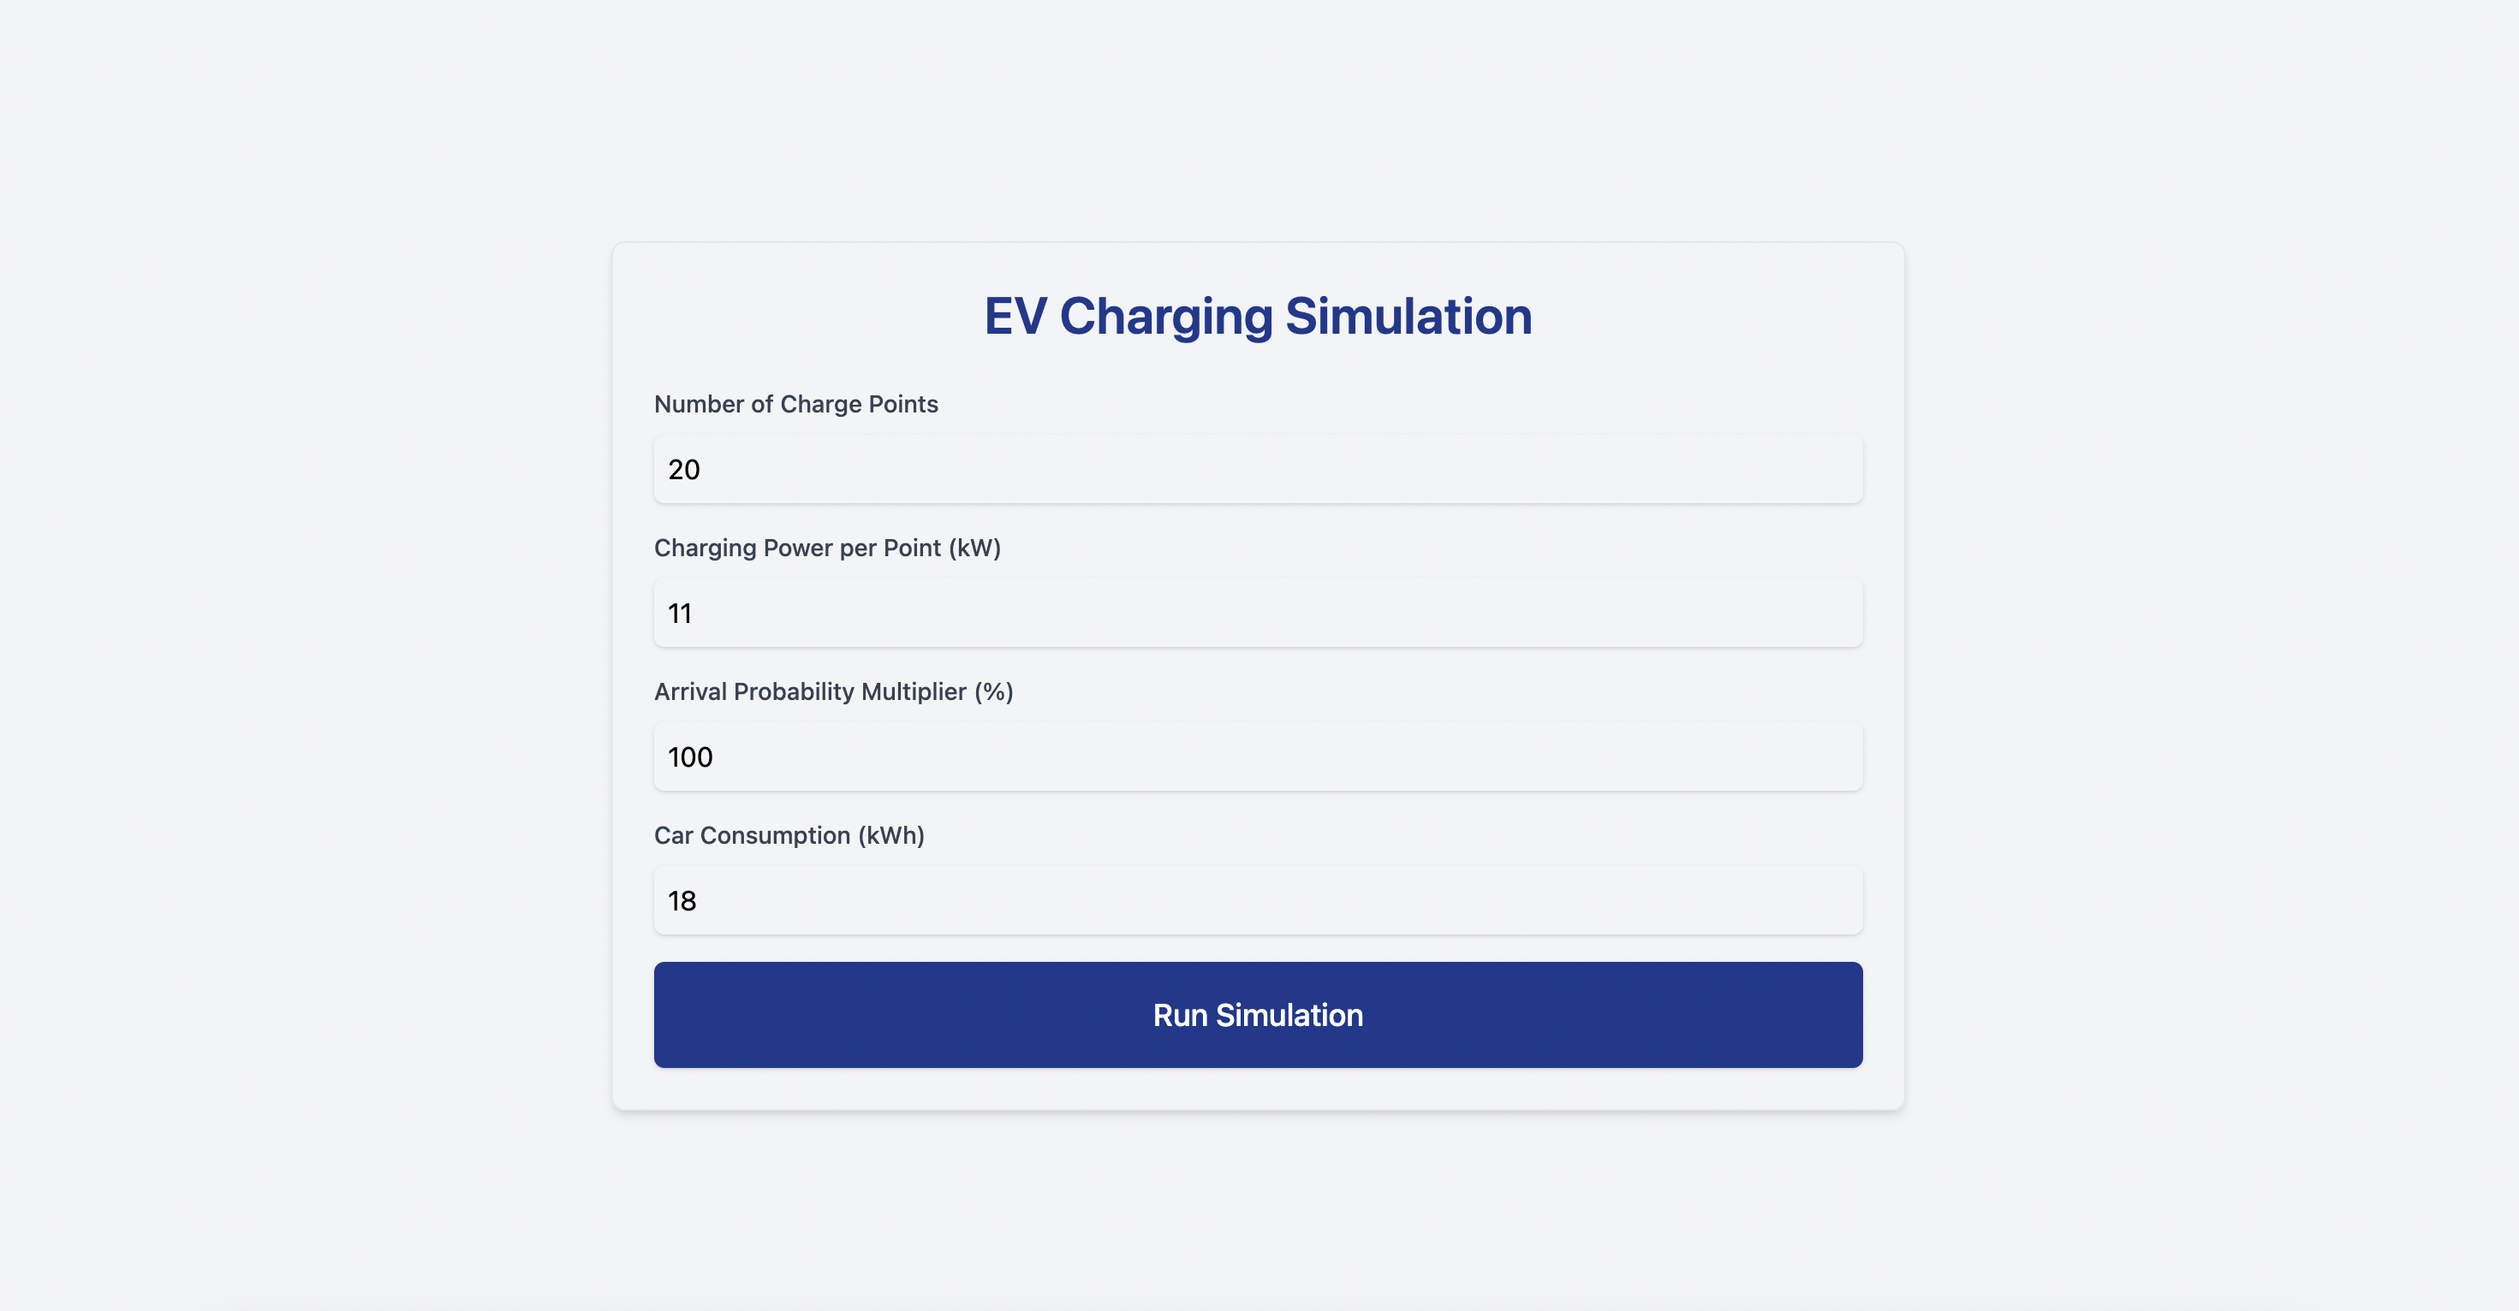
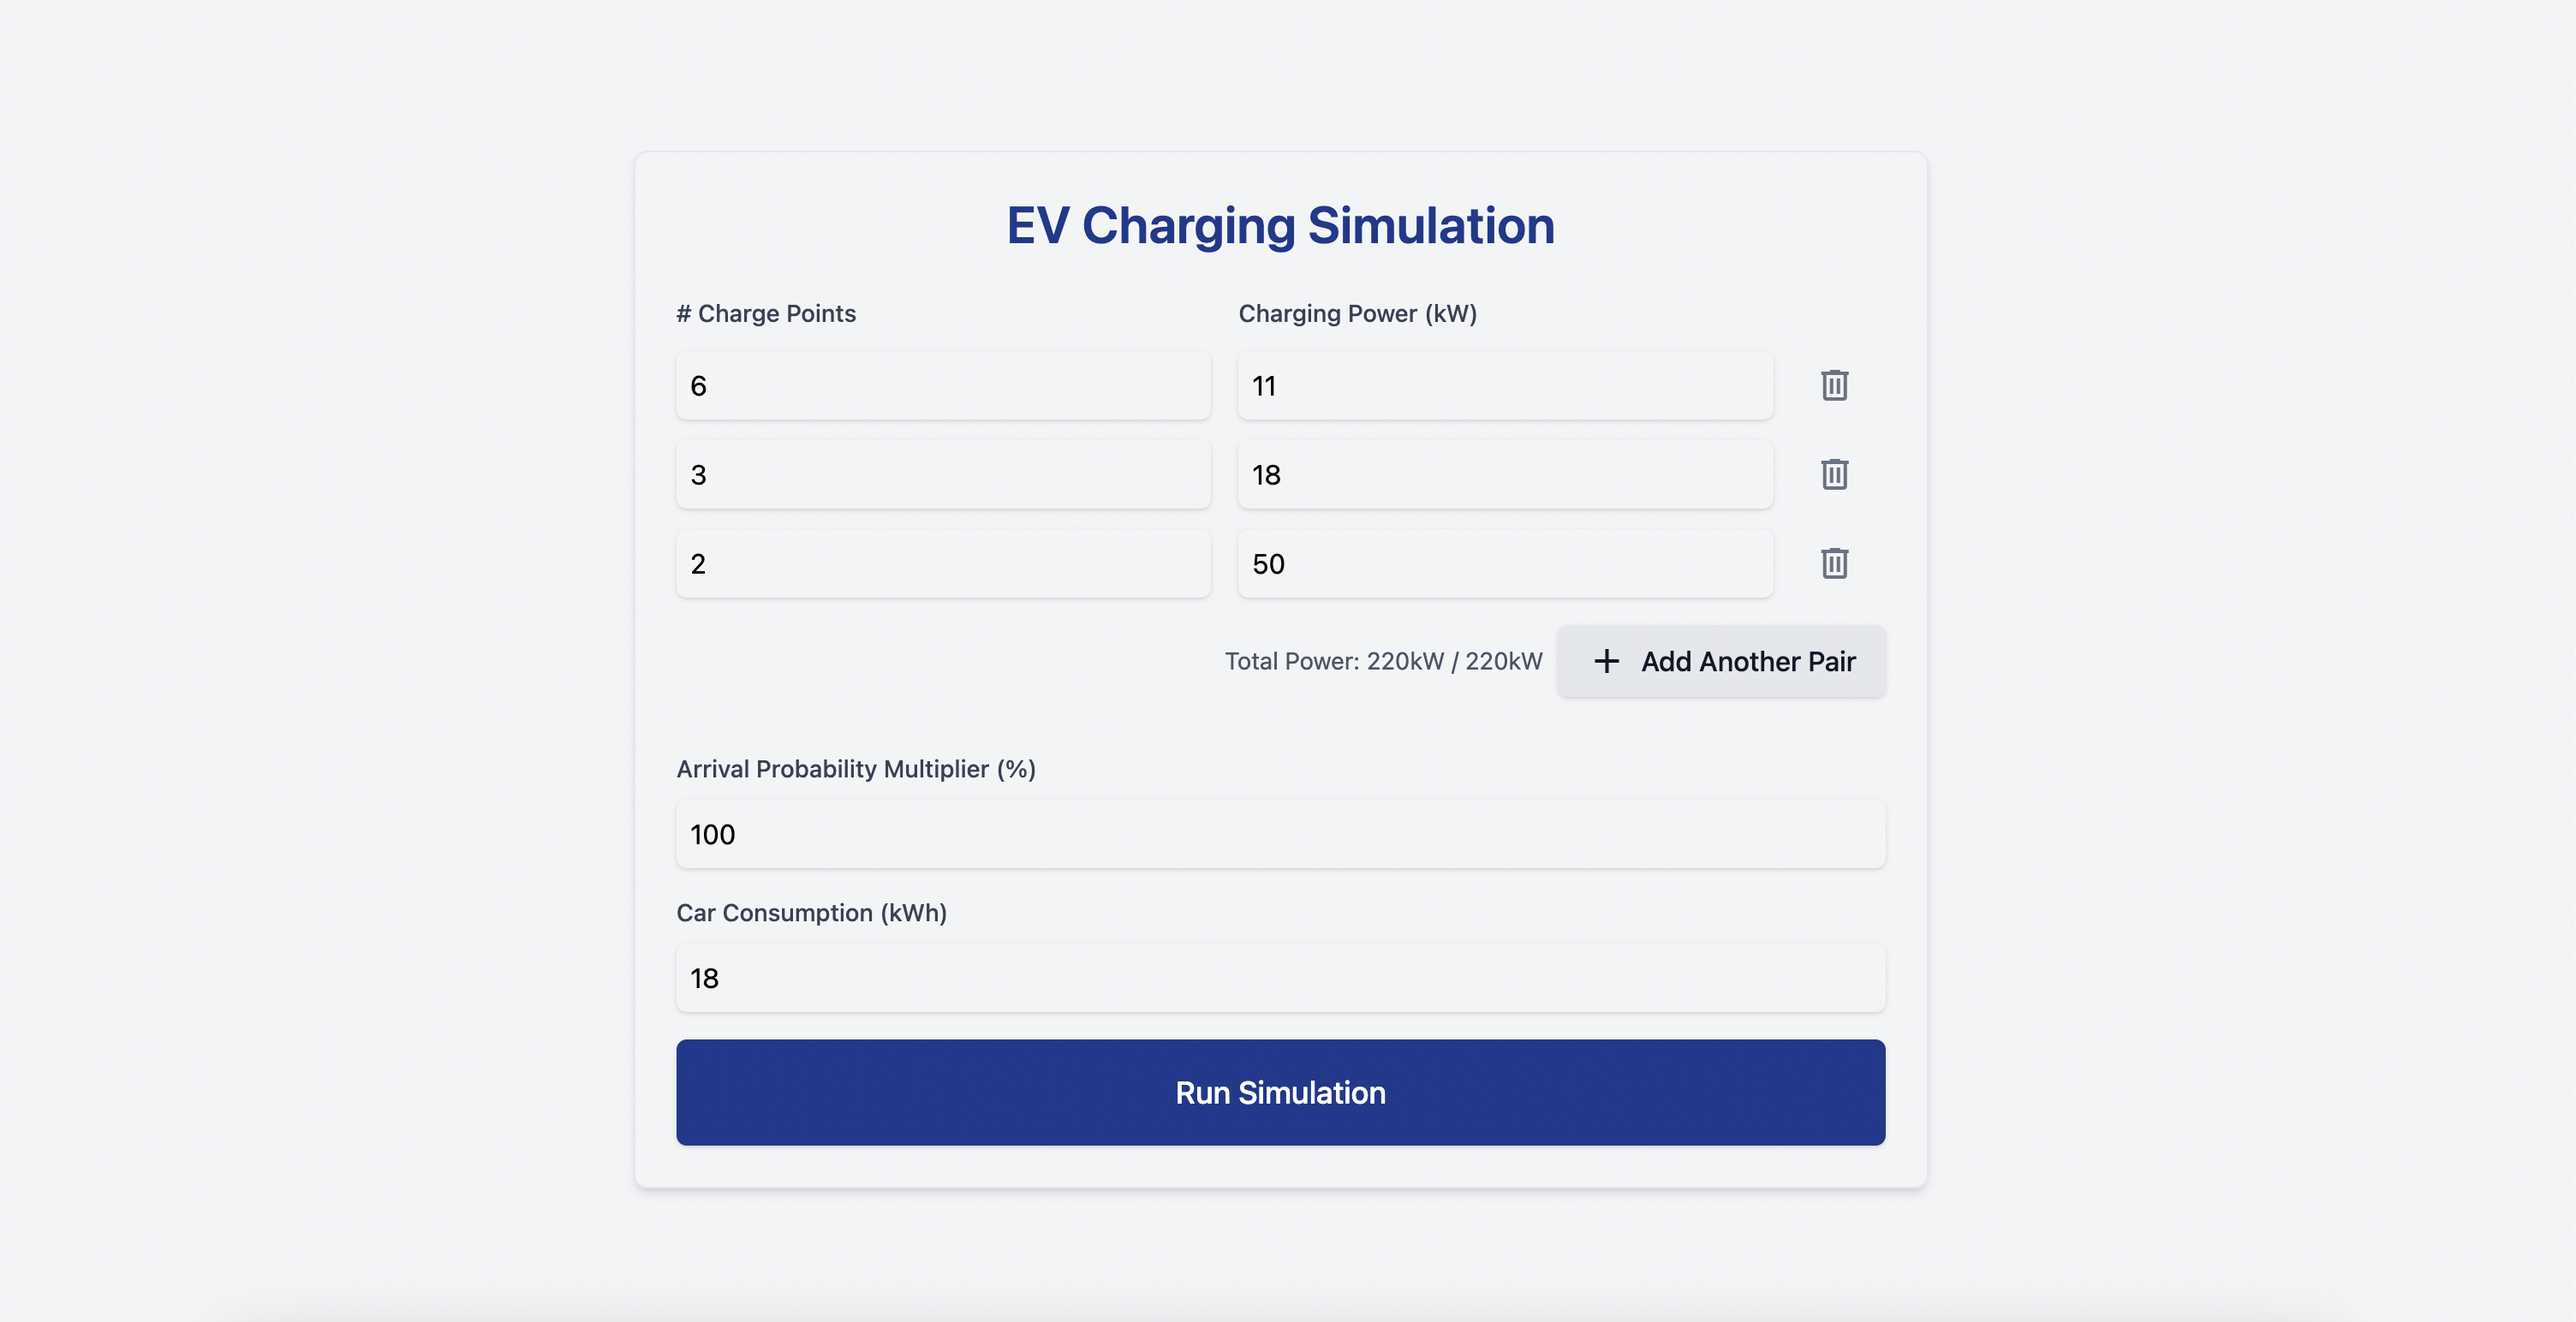
📚docs: update README.md and screenshots based on new dynamic form

diff --git a/README.md b/README.md
@@ -17,6 +17,7 @@ You can access the live demo of the application via the following link:
   - Charging power per point (kW)
   - Arrival probability multiplier (20-200%)
   - Car consumption (kWh)
+- Ability to have dynamic charge points with different charging power
 - Total power management (maximum 220kW)
 - Visual data representation
 
@@ -76,5 +77,6 @@ yarn build
 - types # General types definitions
 - utils # Utility functions
 - hooks # Hooks like useMockData
+- constants # Define static values
 
 
